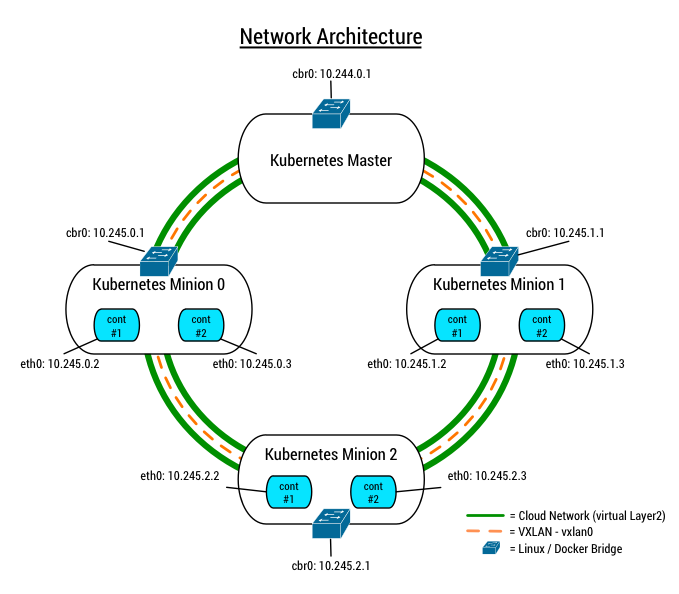
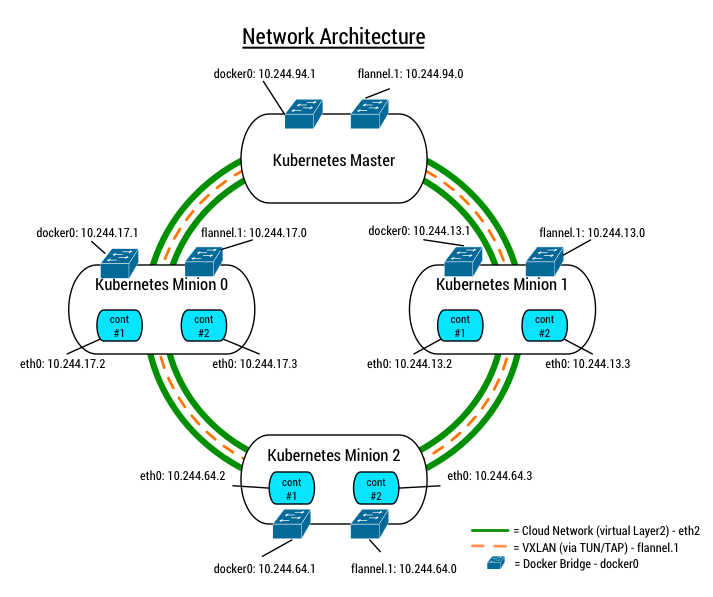
Bump CoreOS to 494.0.0 & use Flannel

Changed region(s): [[0.0309, 0.0303, 0.9278, 0.9697], [0.6495, 0.8485, 0.9897, 0.9697], [0.866, 0.4848, 0.8969, 0.5455]]

diff --git a/README.md b/README.md
@@ -4,7 +4,7 @@ Last Update: 11/17/2014
 ## TL;DR
 
 #### Versions
-CoreOS version used: [v490.0.0 - Alpha](https://coreos.com/releases/#490.0.0)
+CoreOS version used: [v494.0.0 - Alpha](https://coreos.com/releases/#494.0.0)
 
 Kubernetes version used: [v0.4.3](https://github.com/GoogleCloudPlatform/kubernetes/releases/tag/v0.4.3)
 
@@ -92,22 +92,21 @@ Since vxlan's function by encapsulating the MAC-based layer 2 ethernet frames wi
 * We get around the MAC filtering that the Cloud Network imposes, as vxlan traffic will still originate from the Cloud Network MAC address, and not the linux bridge used by Docker when a container creates the traffic
 * Communication paths for the entire group of all Kubernetes host machines & containers becomes automatically established because multicast allows all machines (hosts & containers) to not only send packets, but also, receive all packets sent on the overlay network; therefore, both Kubernetes host machines and containers can communicate with one another on their own subnet.
 
-Below is the proposed network architecture that is configured on the Kubernetes machines via cloud-config & systemd units:
+Below is the proposed network architecture that is configured on the Kubernetes machines using [CoreOS' Flannel](https://github.com/coreos/flannel) via cloud-config & systemd units:
 
-* Each Kubernetes machine will have an interface, named "eth2", on the 192.168.3.0/24 Cloud Network
-* We will then create a new bridge, named "cbr0" to differ from the default "docker0", with a network CIDR 10.244.0.0/15 where:
-    * Master nodes will have an address of 10.244.{master\_machine\_index}.1/24
-    * Minion nodes will have an address of 10.245.{minion\_machine\_index}.1/24
-* A vxlan network device is then created named "vxlan0" on multicast mode which operates on the eth2 device, hence, creating an overlay on top of eth2
-* We then add the new vxlan device, vxlan0, to the bridge, cbr0
-* Finally, we swap out the default Docker bridge, docker0, with cbr0 in the Docker daemon so that it all container networking is based off of this new bridge
+* Each Kubernetes machine will have an interface, named "eth2", on the isolated L2 192.168.3.0/24 Cloud Network
+* Flannel then creates a TUN/TAP device named "flannel.1" that overlays onto the eth2 device
+* Flannel also chooses a random subnet ID from the CIDR 10.244.0.0/15 that we've designated for the Flannel configuration and an MTU and assigns it to flannel.1
+    * i.e 10.244.94.0/15
+* Flannel then requests a subnet lease on 10.244.0.0/15 for the Docker bridge
+* We then update the Docker bridge interface's host CIDR by assigning it the new subnet chosen by Flannel (relevant to the overlay CIDR), and drop both the Docker bridge CIDR and flannel.1's MTU into /run/flannel/subnet.env so that we can make the Docker daemon aware of the new configuration
+    * i.e. $ cat /run/flannel/subnet.env 
+        * FLANNEL_SUBNET=10.244.94.1/24
+        * FLANNEL_MTU=1450
+* Docker is then restarted to take into account the new Docker bridge host CIDR & the flannel.1 MTU
+* The Docker bridge is now set to instantiate containers on the new CIDR and depends on the host routing table to route all overlay traffic on the 10.244.0.0/15 CIDR via flannel.1
 
 <p align="center"><img src="images/networking.png"></p>
-
-**Note**: Some aspects of the networking such as the subnet assignment being based
-off of the Heat machine index in the resource group are known hacks and are *not* meant to be used in production. Better subnet management, and potentially
-creating the appropriate network for the Docker containers that Kubernetes
-manages may be better suited with recently-released projects such as [Rudder](https://github.com/coreos/rudder) & [Weave](https://github.com/zettio/weave/). However, it is not in the near-term scope of Corekube to adopt one technology over the other.
 
 **Note**: If you have RackConnect enabled you will require rules like the ones
 below.  If you don't know what RackConnect is, you may safely ignore this.
